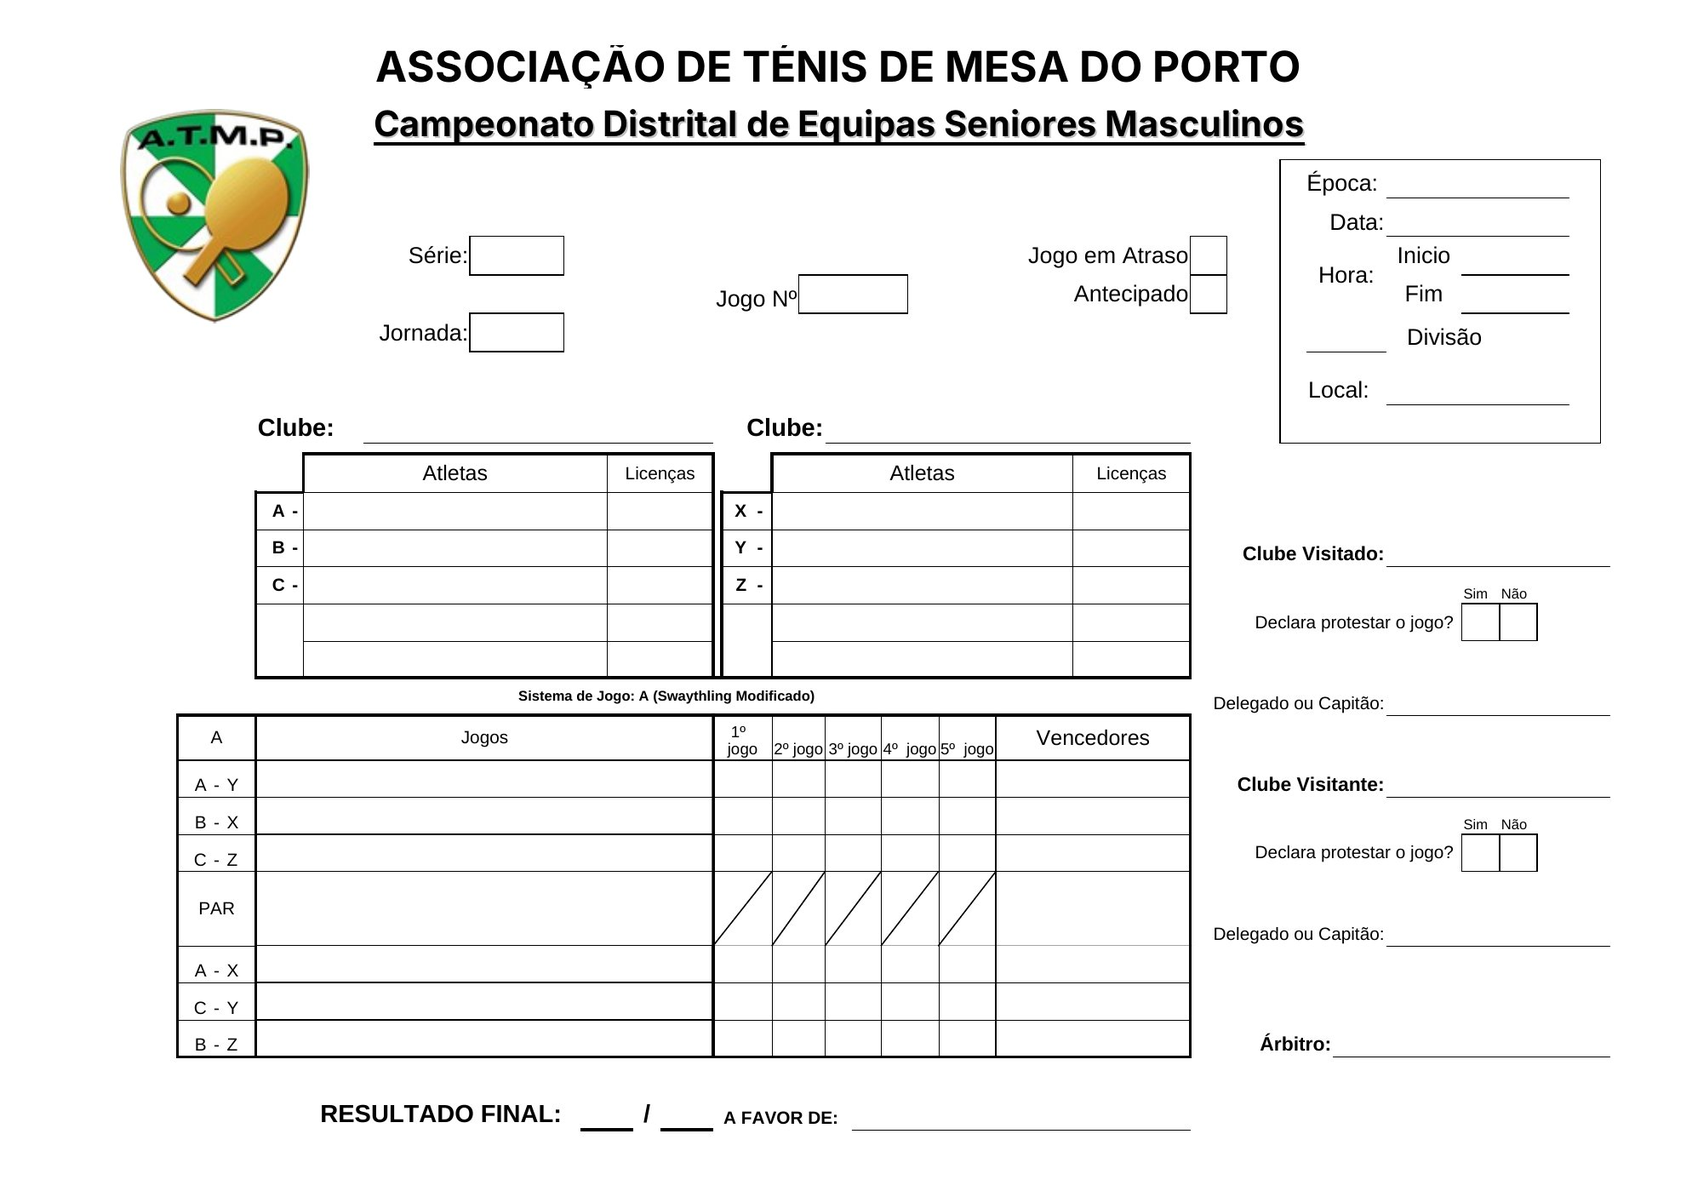
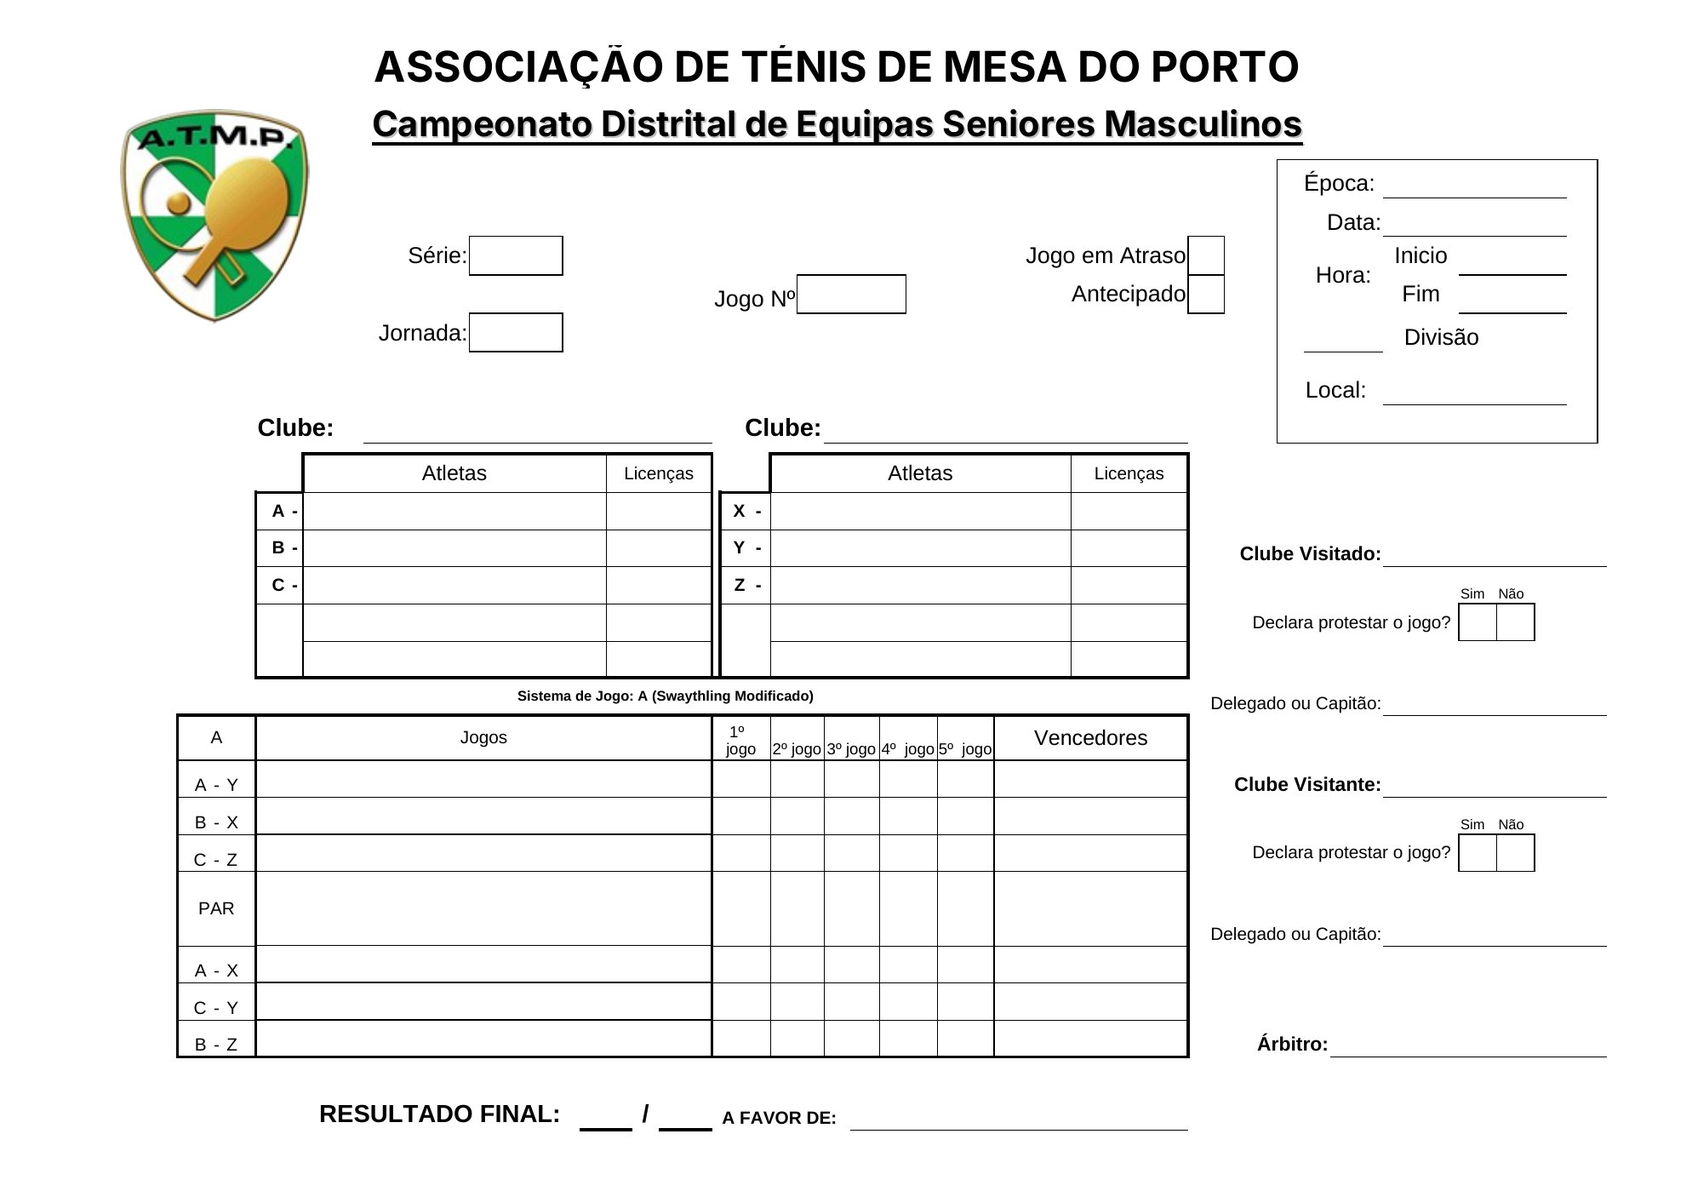
Boletim: modelo atualizado, submeter fecha o boletim, Zerar tudo apaga o boletim, PDF só descarrega
Claude-Session: https://claude.ai/code/session_011guq98EKHZtncQA2n7VTXk

diff --git a/boletim.js b/boletim.js
@@ -17,7 +17,7 @@ const JOGOS_PARA_GANHAR = 4;
 
 // Posições (em pontos, folha A4 deitada 841.89 × 595.3) de cada campo no modelo da ATMP.
 // [x, y do centro, alinhamento c=centro / l=esquerda]
-const P = {"serie":[257.2,127.2,"c"],"atraso":[601.4,127.2,"c"],"jogoN":[424.5,146.3,"c"],"antecipado":[601.4,146.3,"c"],"epoca":[735.4,88.9,"c"],"data":[735.4,108.1,"c"],"jornada":[257.2,165.5,"c"],"divisao":[670.0,165.5,"c"],"inicio":[754.2,127.2,"c"],"fim":[754.2,146.3,"c"],"local":[735.4,188.2,"c"],"clubeCasa":[181.9,211.0,"l"],"clubeVis":[411.5,211.0,"l"],"casaNome0":[151.9,254.2,"l"],"casaLic0":[328.6,254.2,"c"],"visNome0":[385.1,254.2,"l"],"visLic0":[563.2,254.2,"c"],"casaNome1":[151.9,272.6,"l"],"casaLic1":[328.6,272.6,"c"],"visNome1":[385.1,272.6,"l"],"visLic1":[563.2,272.6,"c"],"casaNome2":[151.9,291.1,"l"],"casaLic2":[328.6,291.1,"c"],"visNome2":[385.1,291.1,"l"],"visLic2":[563.2,291.1,"c"],"casaNome3":[151.9,309.6,"l"],"casaLic3":[328.6,309.6,"c"],"visNome3":[385.1,309.6,"l"],"visLic3":[563.2,309.6,"c"],"protCasaSim":[736.8,309.6,"c"],"protCasaNao":[755.7,309.6,"c"],"casaNome4":[151.9,328.0,"l"],"casaLic4":[328.6,328.0,"c"],"visNome4":[385.1,328.0,"l"],"visLic4":[563.2,328.0,"c"],"visitado":[709.5,272.6,"l"],"delegCasa":[709.5,346.5,"l"],"visitante":[709.5,387.4,"l"],"j0nome":[241.2,387.4,"c"],"j0s0":[369.6,387.4,"c"],"j0s1":[397.4,387.4,"c"],"j0s2":[424.6,387.4,"c"],"j0s3":[452.8,387.4,"c"],"j0s4":[481.4,387.4,"c"],"j0venc":[544.0,387.4,"c"],"j1nome":[241.2,405.8,"c"],"j1s0":[369.6,405.8,"c"],"j1s1":[397.4,405.8,"c"],"j1s2":[424.6,405.8,"c"],"j1s3":[452.8,405.8,"c"],"j1s4":[481.4,405.8,"c"],"j1venc":[544.0,405.8,"c"],"j2nome":[241.2,424.3,"c"],"j2s0":[369.6,424.3,"c"],"j2s1":[397.4,424.3,"c"],"j2s2":[424.6,424.3,"c"],"j2s3":[452.8,424.3,"c"],"j2s4":[481.4,424.3,"c"],"j2venc":[544.0,424.3,"c"],"protVisSim":[736.8,424.3,"c"],"protVisNao":[755.7,424.3,"c"],"j3s0":[369.6,452.0,"c"],"j3s1":[397.4,452.0,"c"],"j3s2":[424.6,452.0,"c"],"j3s3":[452.8,452.0,"c"],"j3venc":[544.0,452.0,"c"],"j3nome":[241.2,442.8,"c"],"j3nome2":[241.2,461.2,"c"],"j3s4":[481.4,452.0,"c"],"j4nome":[241.2,479.7,"c"],"j4s0":[369.6,479.7,"c"],"j4s3":[452.8,479.7,"c"],"j4s4":[481.4,479.7,"c"],"j4venc":[544.0,479.7,"c"],"j5nome":[241.2,498.1,"c"],"j5s0":[369.6,498.1,"c"],"j5s1":[397.4,498.1,"c"],"j5s2":[424.6,498.1,"c"],"j5s3":[452.8,498.1,"c"],"j5s4":[481.4,498.1,"c"],"j5venc":[544.0,498.1,"c"],"j6nome":[241.2,516.6,"c"],"j6s0":[369.6,516.6,"c"],"j6s1":[397.4,516.6,"c"],"j6s2":[424.6,516.6,"c"],"j6s3":[452.8,516.6,"c"],"j6s4":[481.4,516.6,"c"],"j6venc":[544.0,516.6,"c"],"resCasa":[308.7,553.8,"c"],"resVis":[335.2,553.8,"c"],"j4s1":[397.4,479.7,"c"],"j4s2":[424.6,479.7,"c"],"favor":[426,553.8,"l"],"arbitro":[677.5,516.6,"l"],"delegVis":[709.5,461.2,"l"]};
+const P = {"serie":[256.8,127.2,"c"],"atraso":[600.2,127.2,"c"],"jogoN":[423.7,146.3,"c"],"antecipado":[600.2,146.3,"c"],"epoca":[734.0,88.9,"c"],"data":[734.0,108.1,"c"],"jornada":[256.8,165.5,"c"],"divisao":[668.6,165.5,"c"],"inicio":[752.7,127.2,"c"],"fim":[752.7,146.3,"c"],"local":[734.0,188.2,"c"],"clubeCasa":[181.7,211.0,"l"],"clubeVis":[410.7,211.0,"l"],"casaNome0":[151.8,254.2,"l"],"casaLic0":[327.9,254.2,"c"],"visNome0":[384.3,254.2,"l"],"visLic0":[562.0,254.2,"c"],"casaNome1":[151.8,272.6,"l"],"casaLic1":[327.9,272.6,"c"],"visNome1":[384.3,272.6,"l"],"visLic1":[562.0,272.6,"c"],"casaNome2":[151.8,291.1,"l"],"casaLic2":[327.9,291.1,"c"],"visNome2":[384.3,291.1,"l"],"visLic2":[562.0,291.1,"c"],"casaNome3":[151.8,309.6,"l"],"casaLic3":[327.9,309.6,"c"],"visNome3":[384.3,309.6,"l"],"visLic3":[562.0,309.6,"c"],"protCasaSim":[735.4,309.6,"c"],"protCasaNao":[754.2,309.6,"c"],"casaNome4":[151.8,328.0,"l"],"casaLic4":[327.9,328.0,"c"],"visNome4":[384.3,328.0,"l"],"visLic4":[562.0,328.0,"c"],"visitado":[708.1,272.6,"l"],"delegCasa":[708.1,346.5,"l"],"visitante":[708.1,387.4,"l"],"j0nome":[240.8,387.4,"c"],"j0s0":[368.9,387.4,"c"],"j0s1":[396.7,387.4,"c"],"j0s2":[423.8,387.4,"c"],"j0s3":[451.9,387.4,"c"],"j0s4":[480.5,387.4,"c"],"j0venc":[543.0,387.4,"c"],"j1nome":[240.8,405.8,"c"],"j1s0":[368.9,405.8,"c"],"j1s1":[396.7,405.8,"c"],"j1s2":[423.8,405.8,"c"],"j1s3":[451.9,405.8,"c"],"j1s4":[480.5,405.8,"c"],"j1venc":[543.0,405.8,"c"],"j2nome":[240.8,424.3,"c"],"j2s0":[368.9,424.3,"c"],"j2s1":[396.7,424.3,"c"],"j2s2":[423.8,424.3,"c"],"j2s3":[451.9,424.3,"c"],"j2s4":[480.4,424.3,"c"],"j2venc":[543.0,424.3,"c"],"protVisSim":[735.4,424.3,"c"],"protVisNao":[754.2,424.3,"c"],"j3nome":[240.8,445.5,"c"],"j3s0":[368.9,452.0,"c"],"j3s1":[396.7,452.0,"c"],"j3s2":[423.8,452.0,"c"],"j3s3":[451.9,452.0,"c"],"j3s4":[480.4,452.0,"c"],"j3venc":[543.0,452.0,"c"],"j4nome":[240.8,479.7,"c"],"j4s0":[368.9,479.7,"c"],"j4s3":[451.9,479.7,"c"],"j4s4":[480.4,479.7,"c"],"j4venc":[543.0,479.7,"c"],"j5nome":[240.8,498.1,"c"],"j5s0":[368.9,498.1,"c"],"j5s1":[396.6,498.1,"c"],"j5s2":[423.7,498.1,"c"],"j5s3":[451.9,498.1,"c"],"j5s4":[480.4,498.1,"c"],"j5venc":[543.0,498.1,"c"],"j6nome":[240.8,516.6,"c"],"j6s0":[368.9,516.6,"c"],"j6s1":[396.6,516.6,"c"],"j6s2":[423.7,516.6,"c"],"j6s3":[451.9,516.6,"c"],"j6s4":[480.4,516.6,"c"],"j6venc":[543.0,516.6,"c"],"resCasa":[308.2,553.8,"c"],"resVis":[334.6,553.8,"c"],"j4s1":[396.7,479.7,"c"],"j4s2":[423.8,479.7,"c"],"favor":[426,553.8,"l"],"arbitro":[676.1,516.6,"l"],"delegVis":[708.1,461.2,"l"],"j3nome2":[240.8,458.5,"c"]};
 
 let api = null;          // funções do controlo (estado, gravar, clubes…)
 let aberto = false;      // painel do boletim aberto?
@@ -41,7 +41,7 @@ function novo(ant) {
     par: { casa: [-1, -1], vis: [-1, -1] },
     jogos: ORDEM.map(() => ({ sets: [], venc: "" })),
     atual: -1,
-    assin: { protCasa: "", protVis: "", nomeCasa: "", nomeVis: "", nomeArb: "" }
+    assin: { protCasa: "", protVis: "", nomeCasa: "", nomeVis: "", nomeArb: "", subCasa: false, subVis: false, subArb: false }
   };
 }
 
@@ -75,6 +75,9 @@ function vitorias(b) {
   b.jogos.forEach(g => { if (g.venc === "casa") casa++; else if (g.venc === "vis") vis++; });
   return { casa, vis };
 }
+// Depois de uma equipa (ou o árbitro) submeter, o boletim fica fechado: não se pode voltar atrás
+const bloqueado = b => !!(b && b.assin && (b.assin.subCasa || b.assin.subVis || b.assin.subArb));
+window.boletimBloqueado = b => bloqueado(b);
 const decidido = b => { const w = vitorias(b); return w.casa >= JOGOS_PARA_GANHAR || w.vis >= JOGOS_PARA_GANHAR; };
 
 // Próximo jogo a disputar (-1 se o encontro já está decidido ou acabou)
@@ -122,7 +125,7 @@ function iniciarJogo(s, g) {
 
 // Antes de contar um ponto: se não há jogo em curso no boletim, começa o próximo
 window.boletimAntesPonto = function (s) {
-  const b = norm(s.boletim); if (!b || b.passo !== "jogos" && b.passo !== "assinar") return;
+  const b = norm(s.boletim); if (!b || bloqueado(b) || b.passo !== "jogos" && b.passo !== "assinar") return;
   s.boletim = b;
   if (b.atual >= 0 && !s.fimJogo) return;
   const g = proximo(b);
@@ -131,7 +134,7 @@ window.boletimAntesPonto = function (s) {
 
 // Depois de um set fechar (contagem automática): regista-o no boletim
 window.boletimAposSet = function (s, L) {
-  const b = norm(s.boletim); if (!b || b.atual < 0) return;
+  const b = norm(s.boletim); if (!b || bloqueado(b) || b.atual < 0) return;
   s.boletim = b;
   const jogo = b.jogos[b.atual];
   jogo.sets.push([s.a.pontos, s.b.pontos]);   // a = casa, b = visitante
@@ -140,6 +143,14 @@ window.boletimAposSet = function (s, L) {
     b.atual = -1;
     const w = vitorias(b); s.a.jogos = w.casa; s.b.jogos = w.vis;
   }
+};
+
+// "Zerar tudo" no controlo: apaga também o boletim e as assinaturas
+window.boletimZerar = function (s) {
+  s.boletim = null;
+  assinaturas = {};
+  if (api) api.apagarAssinaturas();
+  if (aberto) window.fecharBoletim();
 };
 
 /* ------------------------------------------------------------------ */
@@ -160,11 +171,14 @@ window.abrirBoletim = function () {
   const s = api.estado();
   if (!s.boletim) {
     api.lerUltimo().then(ant => { mudar(b => Object.assign(b, novo(ant))); desenhar(); });
-  } else desenhar();
+  } else {
+    if (bloqueado(norm(s.boletim)) && s.boletim.passo !== "assinar") mudar(b => { b.passo = "assinar"; });
+    desenhar();
+  }
   $("bolPainel").style.display = "block";
 };
 window.fecharBoletim = function () { aberto = false; $("bolPainel").style.display = "none"; api.mostrar(); };
-window.bolPasso = function (p) { guardarCampos(); mudar(b => { b.passo = p; }); desenhar(); window.scrollTo(0, 0); $("bolPainel").scrollTop = 0; };
+window.bolPasso = function (p) { if (bloqueado(bol()) && p !== "assinar") return; guardarCampos(); mudar(b => { b.passo = p; }); desenhar(); window.scrollTo(0, 0); $("bolPainel").scrollTop = 0; };
 
 // Chamado pelo controlo sempre que o estado muda
 window.boletimMostrar = function (s) {
@@ -184,7 +198,8 @@ function faixa(s) {
   if (!b || (b.passo !== "jogos" && b.passo !== "assinar")) { el.style.display = "none"; return; }
   const w = vitorias(b), g = b.atual >= 0 ? b.atual : proximo(b);
   let txt;
-  if (decidido(b)) txt = "Encontro terminado · " + w.casa + " - " + w.vis + " · toca para assinar";
+  if (bloqueado(b)) txt = "Boletim submetido · " + w.casa + " - " + w.vis + " · toca para gerar o PDF";
+  else if (decidido(b)) txt = "Encontro terminado · " + w.casa + " - " + w.vis + " · toca para assinar";
   else if (g >= 0) {
     const n = nomesJogo(b, g);
     txt = (b.atual >= 0 ? "Jogo " : "Próximo: jogo ") + (g + 1) + " · " + ORDEM[g].et + " · " +
@@ -240,8 +255,9 @@ function guardarCampos() {
     const lado = b.passo;
     mudar(b => { b[lado].atl = atl; });
   }
-  if (b.passo === "assinar" && $("a_nomeCasa")) {
-    const a = { nomeCasa: v("a_nomeCasa").trim(), nomeVis: v("a_nomeVis").trim(), nomeArb: v("a_nomeArb").trim() };
+  if (b.passo === "assinar") {
+    const a = {};
+    ["nomeCasa", "nomeVis", "nomeArb"].forEach(k => { if ($("a_" + k)) a[k] = v("a_" + k).trim(); });
     const fim = v("a_fim");
     mudar(b => { Object.assign(b.assin, a); if (fim !== undefined) b.cab.fim = fim; });
   }
@@ -343,6 +359,7 @@ function passoJogos(b) {
 }
 
 window.bolPar = function (lado, i, v) {
+  if (bloqueado(bol())) return;
   mudar((b, s) => {
     b.par[lado][i] = Number(v);
     if (b.atual === 3) { const n = nomesJogo(b, 3); s.a.atleta = juntar(n.casa); s.b.atleta = juntar(n.vis); }
@@ -351,6 +368,7 @@ window.bolPar = function (lado, i, v) {
 };
 
 window.bolComecar = function (g) {
+  if (bloqueado(bol())) return;
   if (ORDEM[g].par) { const b = bol(); if ([...b.par.casa, ...b.par.vis].some(x => x < 0)) { alert("Escolhe primeiro os 2 atletas de cada equipa para o par."); return; } }
   mudar((b, s) => iniciarJogo(s, g), true);
   desenhar();
@@ -358,6 +376,7 @@ window.bolComecar = function (g) {
 
 // Correção manual de um set ("11-9"; vazio apaga)
 window.bolSet = function (g, k, txt) {
+  if (bloqueado(bol())) return;
   const m = String(txt).match(/(\d+)\D+(\d+)/);
   mudar((b, s) => {
     const jogo = b.jogos[g];
@@ -372,27 +391,48 @@ window.bolSet = function (g, k, txt) {
 
 /* ---------- Passo 5: assinaturas ---------- */
 function passoAssinar(b) {
-  const a = b.assin, w = vitorias(b);
-  const prot = (lado, val) => '<div class="bol-prot">Declara protestar o jogo? ' +
-    '<button class="' + (val === "sim" ? "sel" : "") + '" onclick="bolProt(\'' + lado + '\',\'sim\')">Sim</button>' +
-    '<button class="' + (val === "nao" ? "sel" : "") + '" onclick="bolProt(\'' + lado + '\',\'nao\')">Não</button></div>';
-  const pad = (id, rot, nomeId, nome) => '<div class="bol-ass"><div class="bol-ass-rot">' + rot + "</div>" +
-    '<input id="' + nomeId + '" value="' + esc(nome) + '" placeholder="Nome (opcional)">' +
-    '<canvas id="pad_' + id + '" width="600" height="180"></canvas>' +
-    '<button class="bol-limpar" onclick="bolLimpar(\'' + id + '\')">Limpar assinatura</button></div>';
+  const a = b.assin, w = vitorias(b), fechado = bloqueado(b);
+  const prot = (lado, val, sub) => sub
+    ? '<div class="bol-prot">Declara protestar o jogo? <b>' + (val === "sim" ? "Sim" : "Não") + "</b></div>"
+    : '<div class="bol-prot">Declara protestar o jogo? ' +
+      '<button class="' + (val === "sim" ? "sel" : "") + '" onclick="bolProt(\'' + lado + '\',\'sim\')">Sim</button>' +
+      '<button class="' + (val === "nao" ? "sel" : "") + '" onclick="bolProt(\'' + lado + '\',\'nao\')">Não</button></div>';
+  const pad = (id, rot, nomeId, nome, sub, chave) => sub
+    ? '<div class="bol-ass"><div class="bol-ass-rot">' + rot + (nome ? ": <b>" + esc(nome) + "</b>" : "") + "</div>" +
+      (assinaturas[id] ? '<img class="bol-ass-img" src="' + assinaturas[id] + '">' : "") +
+      '<div class="bol-ok">✔ Submetido</div></div>'
+    : '<div class="bol-ass"><div class="bol-ass-rot">' + rot + "</div>" +
+      '<input id="' + nomeId + '" value="' + esc(nome) + '" placeholder="Nome (opcional)">' +
+      '<canvas id="pad_' + id + '" width="600" height="180"></canvas>' +
+      '<button class="bol-limpar" onclick="bolLimpar(\'' + id + '\')">Limpar assinatura</button>' +
+      '<button class="bol-pri bol-submeter" onclick="bolSubmeter(\'' + chave + '\')">Submeter</button></div>';
+  const podePDF = a.subCasa && a.subVis;
   return (decidido(b) ? "" : '<div class="aviso bol-alerta">Atenção: o encontro ainda não está decidido (' + w.casa + " - " + w.vis + ").</div>") +
-    '<div class="bol-cartao"><div class="bol-sub">Clube visitado: ' + esc(b.casa.nome) + "</div>" + prot("Casa", a.protCasa) +
-    pad("casa", "Delegado ou Capitão", "a_nomeCasa", a.nomeCasa) + "</div>" +
-    '<div class="bol-cartao"><div class="bol-sub">Clube visitante: ' + esc(b.vis.nome) + "</div>" + prot("Vis", a.protVis) +
-    pad("vis", "Delegado ou Capitão", "a_nomeVis", a.nomeVis) + "</div>" +
-    '<div class="bol-cartao">' + pad("arb", "Árbitro", "a_nomeArb", a.nomeArb) +
-    campo("a_fim", "Hora de fim", b.cab.fim || horaAgora(), "time") + "</div>" +
-    '<div class="bol-nav"><button class="bol-sec" onclick="bolPasso(\'jogos\')">‹ Jogos</button>' +
-    '<button class="bol-pri" id="bolBtPDF" onclick="bolPDF()">📄 Gerar PDF</button></div>';
+    '<div class="aviso" style="margin:8px">Depois de submeter, essa parte já não pode ser alterada' + (fechado ? "" : " e o boletim (jogos e resultados) fica fechado") + ".</div>" +
+    '<div class="bol-cartao"><div class="bol-sub">Clube visitado: ' + esc(b.casa.nome) + "</div>" + prot("Casa", a.protCasa, a.subCasa) +
+    pad("casa", "Delegado ou Capitão", "a_nomeCasa", a.nomeCasa, a.subCasa, "Casa") + "</div>" +
+    '<div class="bol-cartao"><div class="bol-sub">Clube visitante: ' + esc(b.vis.nome) + "</div>" + prot("Vis", a.protVis, a.subVis) +
+    pad("vis", "Delegado ou Capitão", "a_nomeVis", a.nomeVis, a.subVis, "Vis") + "</div>" +
+    '<div class="bol-cartao">' + pad("arb", "Árbitro", "a_nomeArb", a.nomeArb, a.subArb, "Arb") +
+    (fechado ? '<div class="bol-ass-rot">Hora de fim: <b>' + esc(b.cab.fim) + "</b></div>" : campo("a_fim", "Hora de fim", b.cab.fim || horaAgora(), "time")) + "</div>" +
+    '<div class="bol-nav">' + (fechado ? "" : '<button class="bol-sec" onclick="bolPasso(\'jogos\')">‹ Jogos</button>') +
+    '<button class="bol-pri" id="bolBtPDF" onclick="bolPDF()"' + (podePDF ? "" : " disabled") + ">📄 Gerar PDF</button></div>" +
+    (podePDF ? "" : '<div class="aviso" style="margin:8px">O PDF fica disponível quando os dois clubes tiverem submetido.</div>');
 }
 
-window.bolProt = function (lado, v) { guardarCampos(); mudar(b => { b.assin["prot" + lado] = v; }); desenhar(); };
+window.bolProt = function (lado, v) { if (bol().assin["sub" + lado]) return; guardarCampos(); mudar(b => { b.assin["prot" + lado] = v; }); desenhar(); };
 window.bolLimpar = function (id) { delete assinaturas[id]; api.guardarAssinatura(id, null); const c = $("pad_" + id); c.getContext("2d").clearRect(0, 0, c.width, c.height); };
+
+// Submeter a parte de um clube (Casa / Vis) ou do árbitro (Arb): fica definitivo
+window.bolSubmeter = function (chave) {
+  guardarCampos();
+  const b = bol(), id = { Casa: "casa", Vis: "vis", Arb: "arb" }[chave];
+  if (chave !== "Arb" && !b.assin["prot" + chave]) { alert("Indica se o clube declara protestar o jogo (Sim ou Não)."); return; }
+  if (!assinaturas[id]) { alert("Falta a assinatura."); return; }
+  if (!confirm("Submeter? Depois disto já não é possível alterar esta parte nem os resultados do boletim.")) return;
+  mudar(b => { if (!b.cab.fim) b.cab.fim = horaAgora(); b.assin["sub" + chave] = true; }, false);
+  desenhar();
+};
 
 // Corta o espaço em branco à volta da assinatura (para ficar maior no PDF)
 function recortar(c) {
@@ -411,7 +451,8 @@ function recortar(c) {
 // Quadros para assinar com o dedo
 function prepararAssinaturas() {
   ["casa", "vis", "arb"].forEach(id => {
-    const c = $("pad_" + id), x = c.getContext("2d");
+    const c = $("pad_" + id); if (!c) return;
+    const x = c.getContext("2d");
     x.lineWidth = 3; x.lineCap = "round"; x.lineJoin = "round"; x.strokeStyle = "#111";
     if (assinaturas[id]) { const im = new Image(); im.onload = () => x.drawImage(im, (c.width - im.width) / 2, (c.height - im.height) / 2); im.src = assinaturas[id]; }
     let ativo = false;
@@ -504,19 +545,14 @@ window.bolPDF = async function () {
         if (nome) pg.drawText(limpar(nome), { x, y: H - y - 13, size: 6, font: fN });
       } else if (nome) escrever(k, nome, 8, maxW, 0, false);
     };
-    await assinar("delegCasa", assinaturas.casa, a.nomeCasa, 110);
-    await assinar("delegVis", assinaturas.vis, a.nomeVis, 110);
-    await assinar("arbitro", assinaturas.arb, a.nomeArb, 135);
+    await assinar("delegCasa", assinaturas.casa, a.nomeCasa, 100);
+    await assinar("delegVis", assinaturas.vis, a.nomeVis, 100);
+    await assinar("arbitro", assinaturas.arb, a.nomeArb, 120);
 
     const nomeFicheiro = ("Boletim " + (b.casa.nome || "") + " vs " + (b.vis.nome || "") + " " + (c.data || "")).replace(/[\\/:*?"<>|.]+/g, " ").replace(/\s+/g, "_") + ".pdf";
     const blob = new Blob([await pdf.save()], { type: "application/pdf" });
-    const ficheiro = new File([blob], nomeFicheiro, { type: "application/pdf" });
-    if (navigator.canShare && navigator.canShare({ files: [ficheiro] }) && confirm("PDF pronto. Partilhar (WhatsApp, email…)?\nCancelar = só descarregar.")) {
-      await navigator.share({ files: [ficheiro], title: nomeFicheiro });
-    } else {
-      const l = document.createElement("a"); l.href = URL.createObjectURL(blob); l.download = nomeFicheiro;
-      document.body.appendChild(l); l.click(); l.remove(); setTimeout(() => URL.revokeObjectURL(l.href), 10000);
-    }
+    const l = document.createElement("a"); l.href = URL.createObjectURL(blob); l.download = nomeFicheiro;
+    document.body.appendChild(l); l.click(); l.remove(); setTimeout(() => URL.revokeObjectURL(l.href), 10000);
   } catch (e) {
     alert("Não foi possível gerar o PDF: " + (e && e.message ? e.message : e));
   } finally {

diff --git a/controlo.html b/controlo.html
@@ -107,6 +107,10 @@
   .bol-ass-rot { font-size: 13px; opacity: .85; margin-bottom: 4px; }
   .bol-ass canvas { display: block; width: 100%; aspect-ratio: 600 / 180; background: #fff; border-radius: 8px; margin-top: 6px; touch-action: none; }
   .bol-limpar { margin-top: 4px; border: 0; border-radius: 8px; padding: 6px 10px; background: #2a3c86; color: #fff; font-size: 12px; }
+  .bol-submeter { width: 100%; height: 46px; margin-top: 8px; border: 0; border-radius: 10px; font-size: 16px; font-weight: 700; }
+  .bol-ok { margin-top: 6px; color: #7be08a; font-weight: 700; }
+  .bol-ass-img { display: block; max-width: 100%; max-height: 90px; background: #fff; border-radius: 8px; padding: 4px; }
+  .bol-nav button:disabled { opacity: .45; }
   .bol-alerta { margin: 8px; padding: 10px; background: #8a2b2b; border-radius: 8px; opacity: 1; font-size: 13px; }
 
   #pinEcra { position: fixed; inset: 0; background: #0b1440; display: flex; flex-direction: column; align-items: center; justify-content: center; gap: 12px; z-index: 9; }
@@ -138,7 +142,7 @@
     <button onclick="enviar('novoJogo')">Novo jogo</button>
     <button onclick="enviar('trocar')">⇄ Trocar lados</button>
     <button id="btVis" onclick="enviar('visivel')">Esconder</button>
-    <button class="perigo" onclick="if (confirm('Pôr tudo a zero (jogos, sets e pontos)?')) enviar('zerar')">Zerar tudo</button>
+    <button class="perigo" onclick="if (confirm('Pôr tudo a zero (jogos, sets, pontos e boletim de jogo)?')) enviar('zerar')">Zerar tudo</button>
     <button class="bol" onclick="abrirBoletim()">📋 Boletim de jogo</button>
   </div>
 
@@ -342,7 +346,11 @@
     if (navigator.vibrate) navigator.vibrate(25);
     if (tipo === "anular") {
       const ant = hist.pop();
-      if (ant) { estado = ant; gravar(); mostrar(); }
+      if (ant) {
+        // um boletim já submetido não volta atrás com o Anular
+        if (estado.boletim && window.boletimBloqueado && window.boletimBloqueado(estado.boletim)) ant.boletim = estado.boletim;
+        estado = ant; gravar(); mostrar();
+      }
       return;
     }
     hist.push(JSON.parse(JSON.stringify(estado)));
@@ -380,7 +388,7 @@
         break;
       }
       case "atleta": s[L].atleta = String(valor || "").trim().slice(0, 40); break;
-      case "zerar": s.saqueInicial = null; ["a", "b"].forEach(k => { s[k].pontos = 0; s[k].sets = 0; s[k].jogos = 0; s[k].timeout = 0; }); s.setFechado = false; s.fimJogo = false; break;
+      case "zerar": if (window.boletimZerar) window.boletimZerar(s); s.saqueInicial = null; ["a", "b"].forEach(k => { s[k].pontos = 0; s[k].sets = 0; s[k].jogos = 0; s[k].timeout = 0; }); s.setFechado = false; s.fimJogo = false; break;
       case "trocar": s.ladosTrocados = !s.ladosTrocados; break;   // troca no controlo e no ecrã da sala; o marcador do direto fica fixo
       case "visivel": s.visivel = s.visivel === false; break;
       case "auto": s.auto = !s.auto; break;
